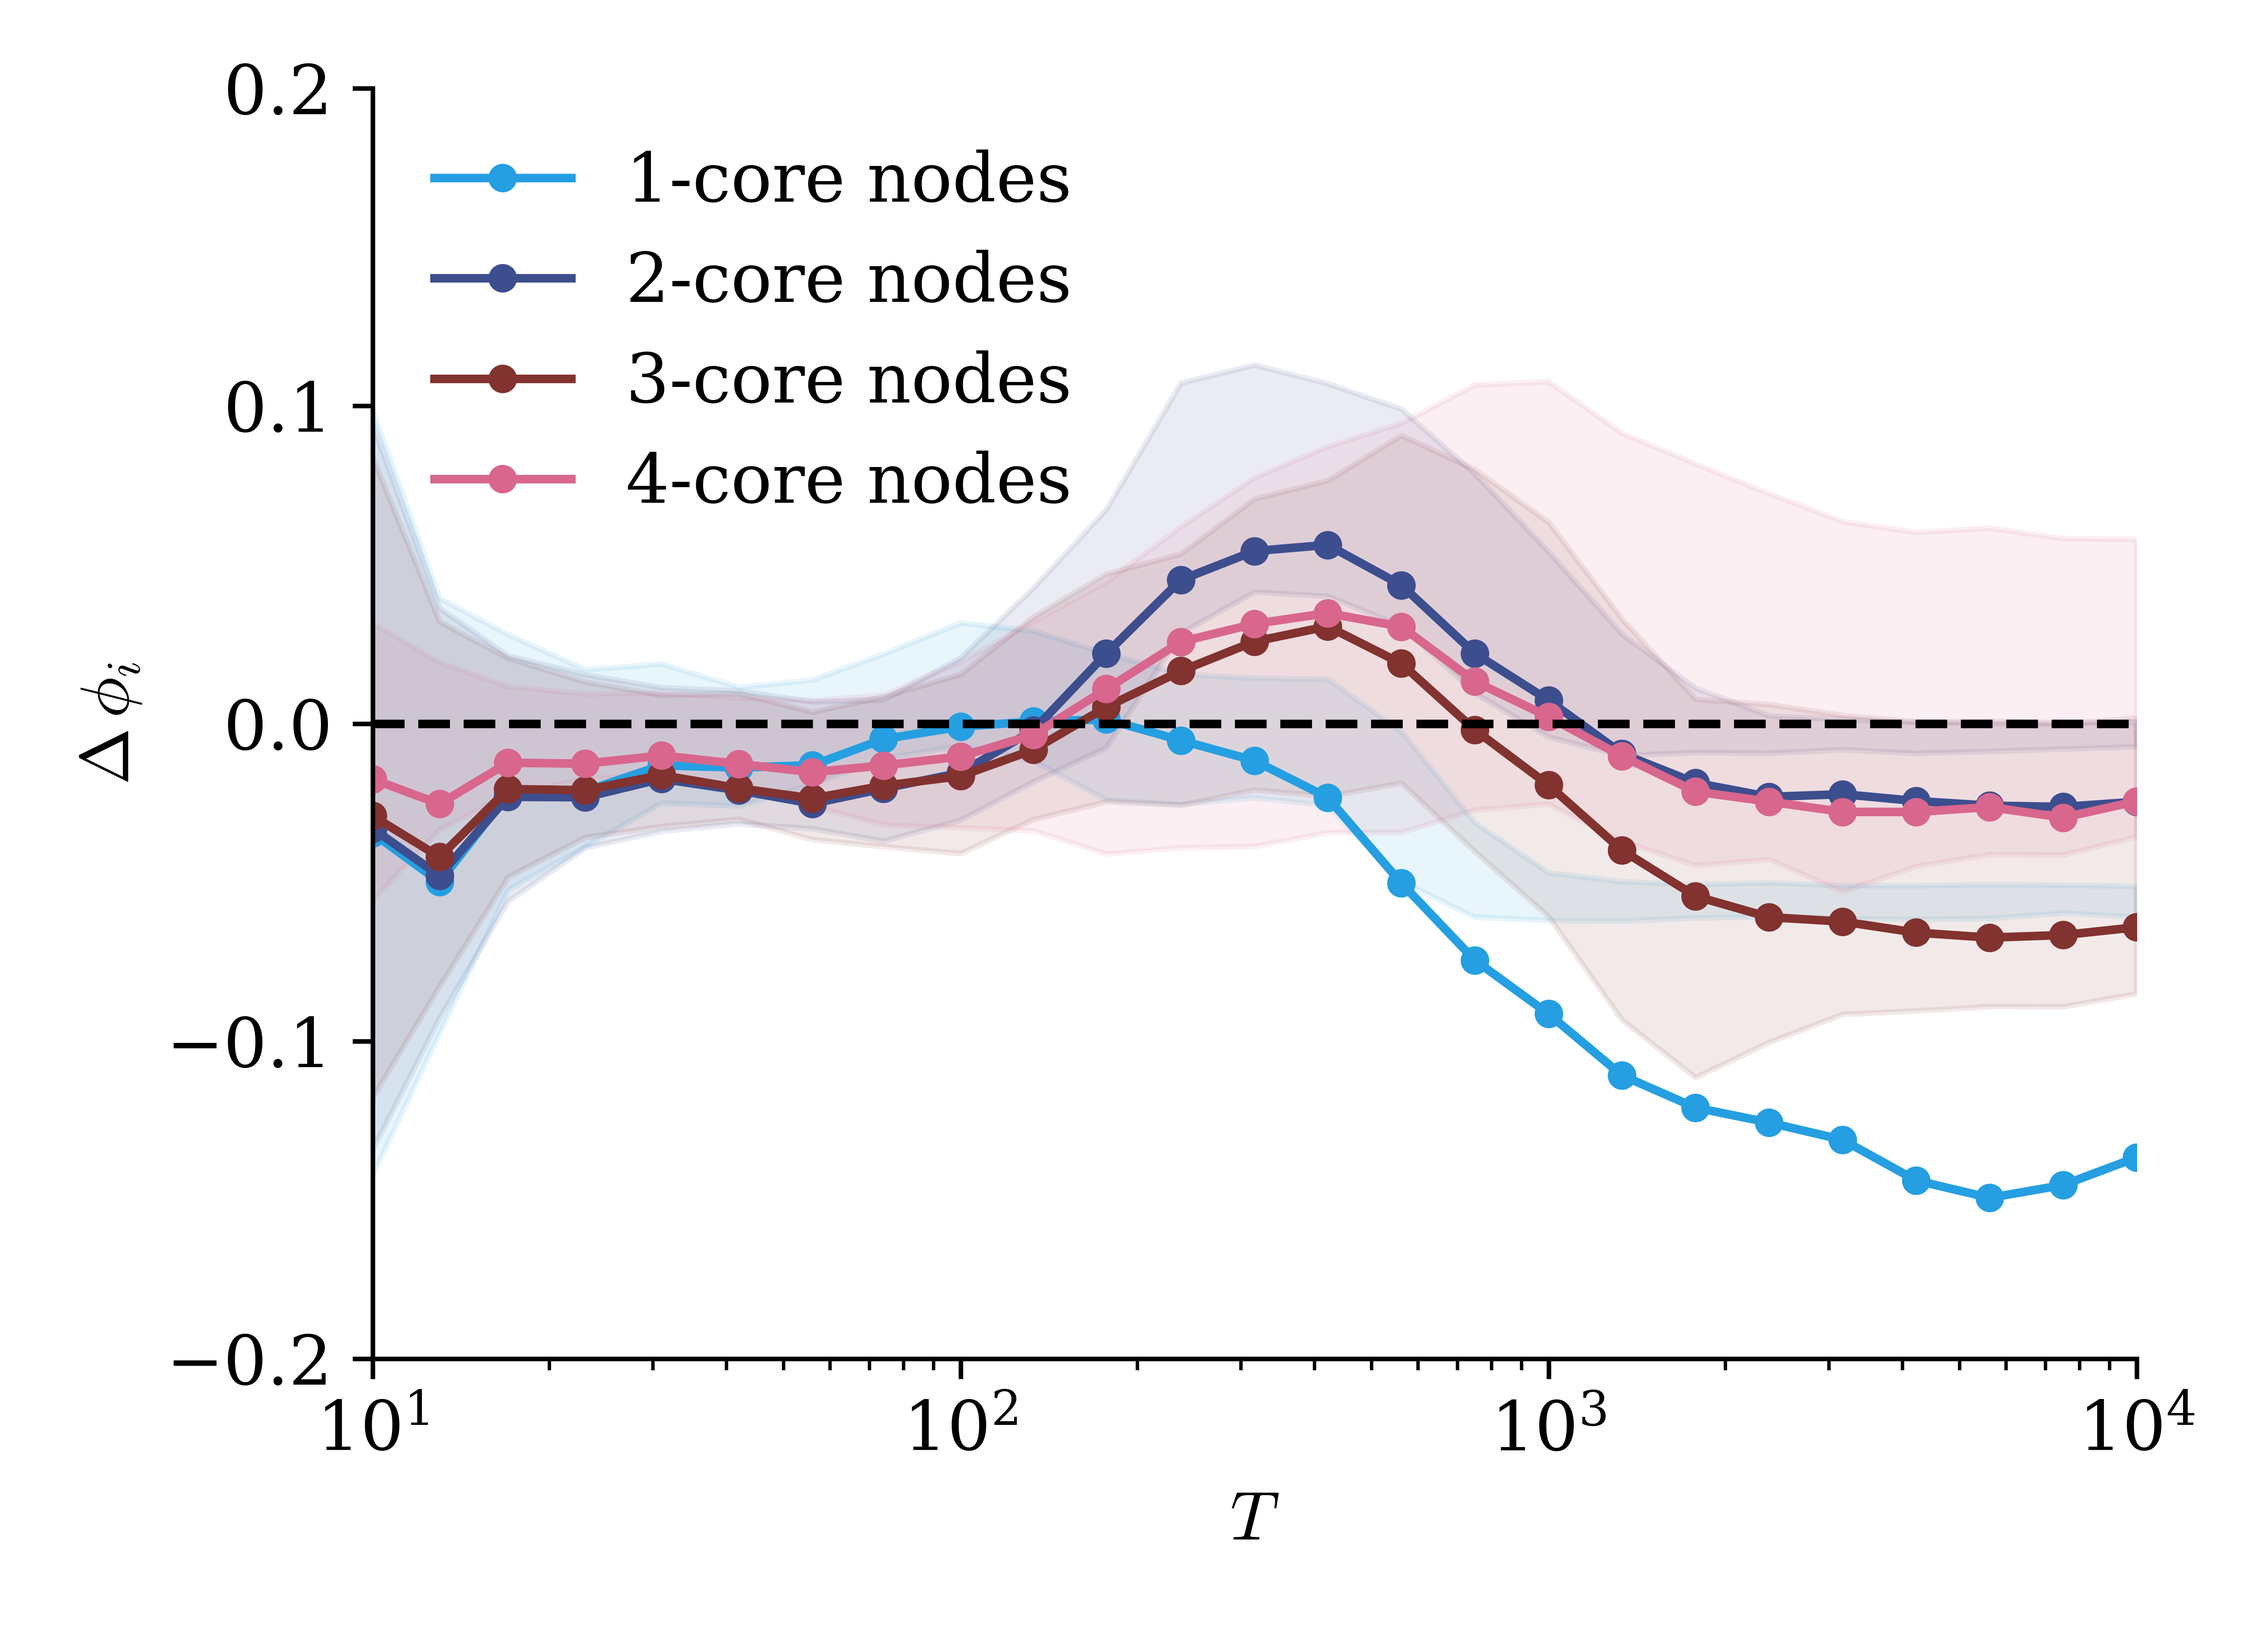
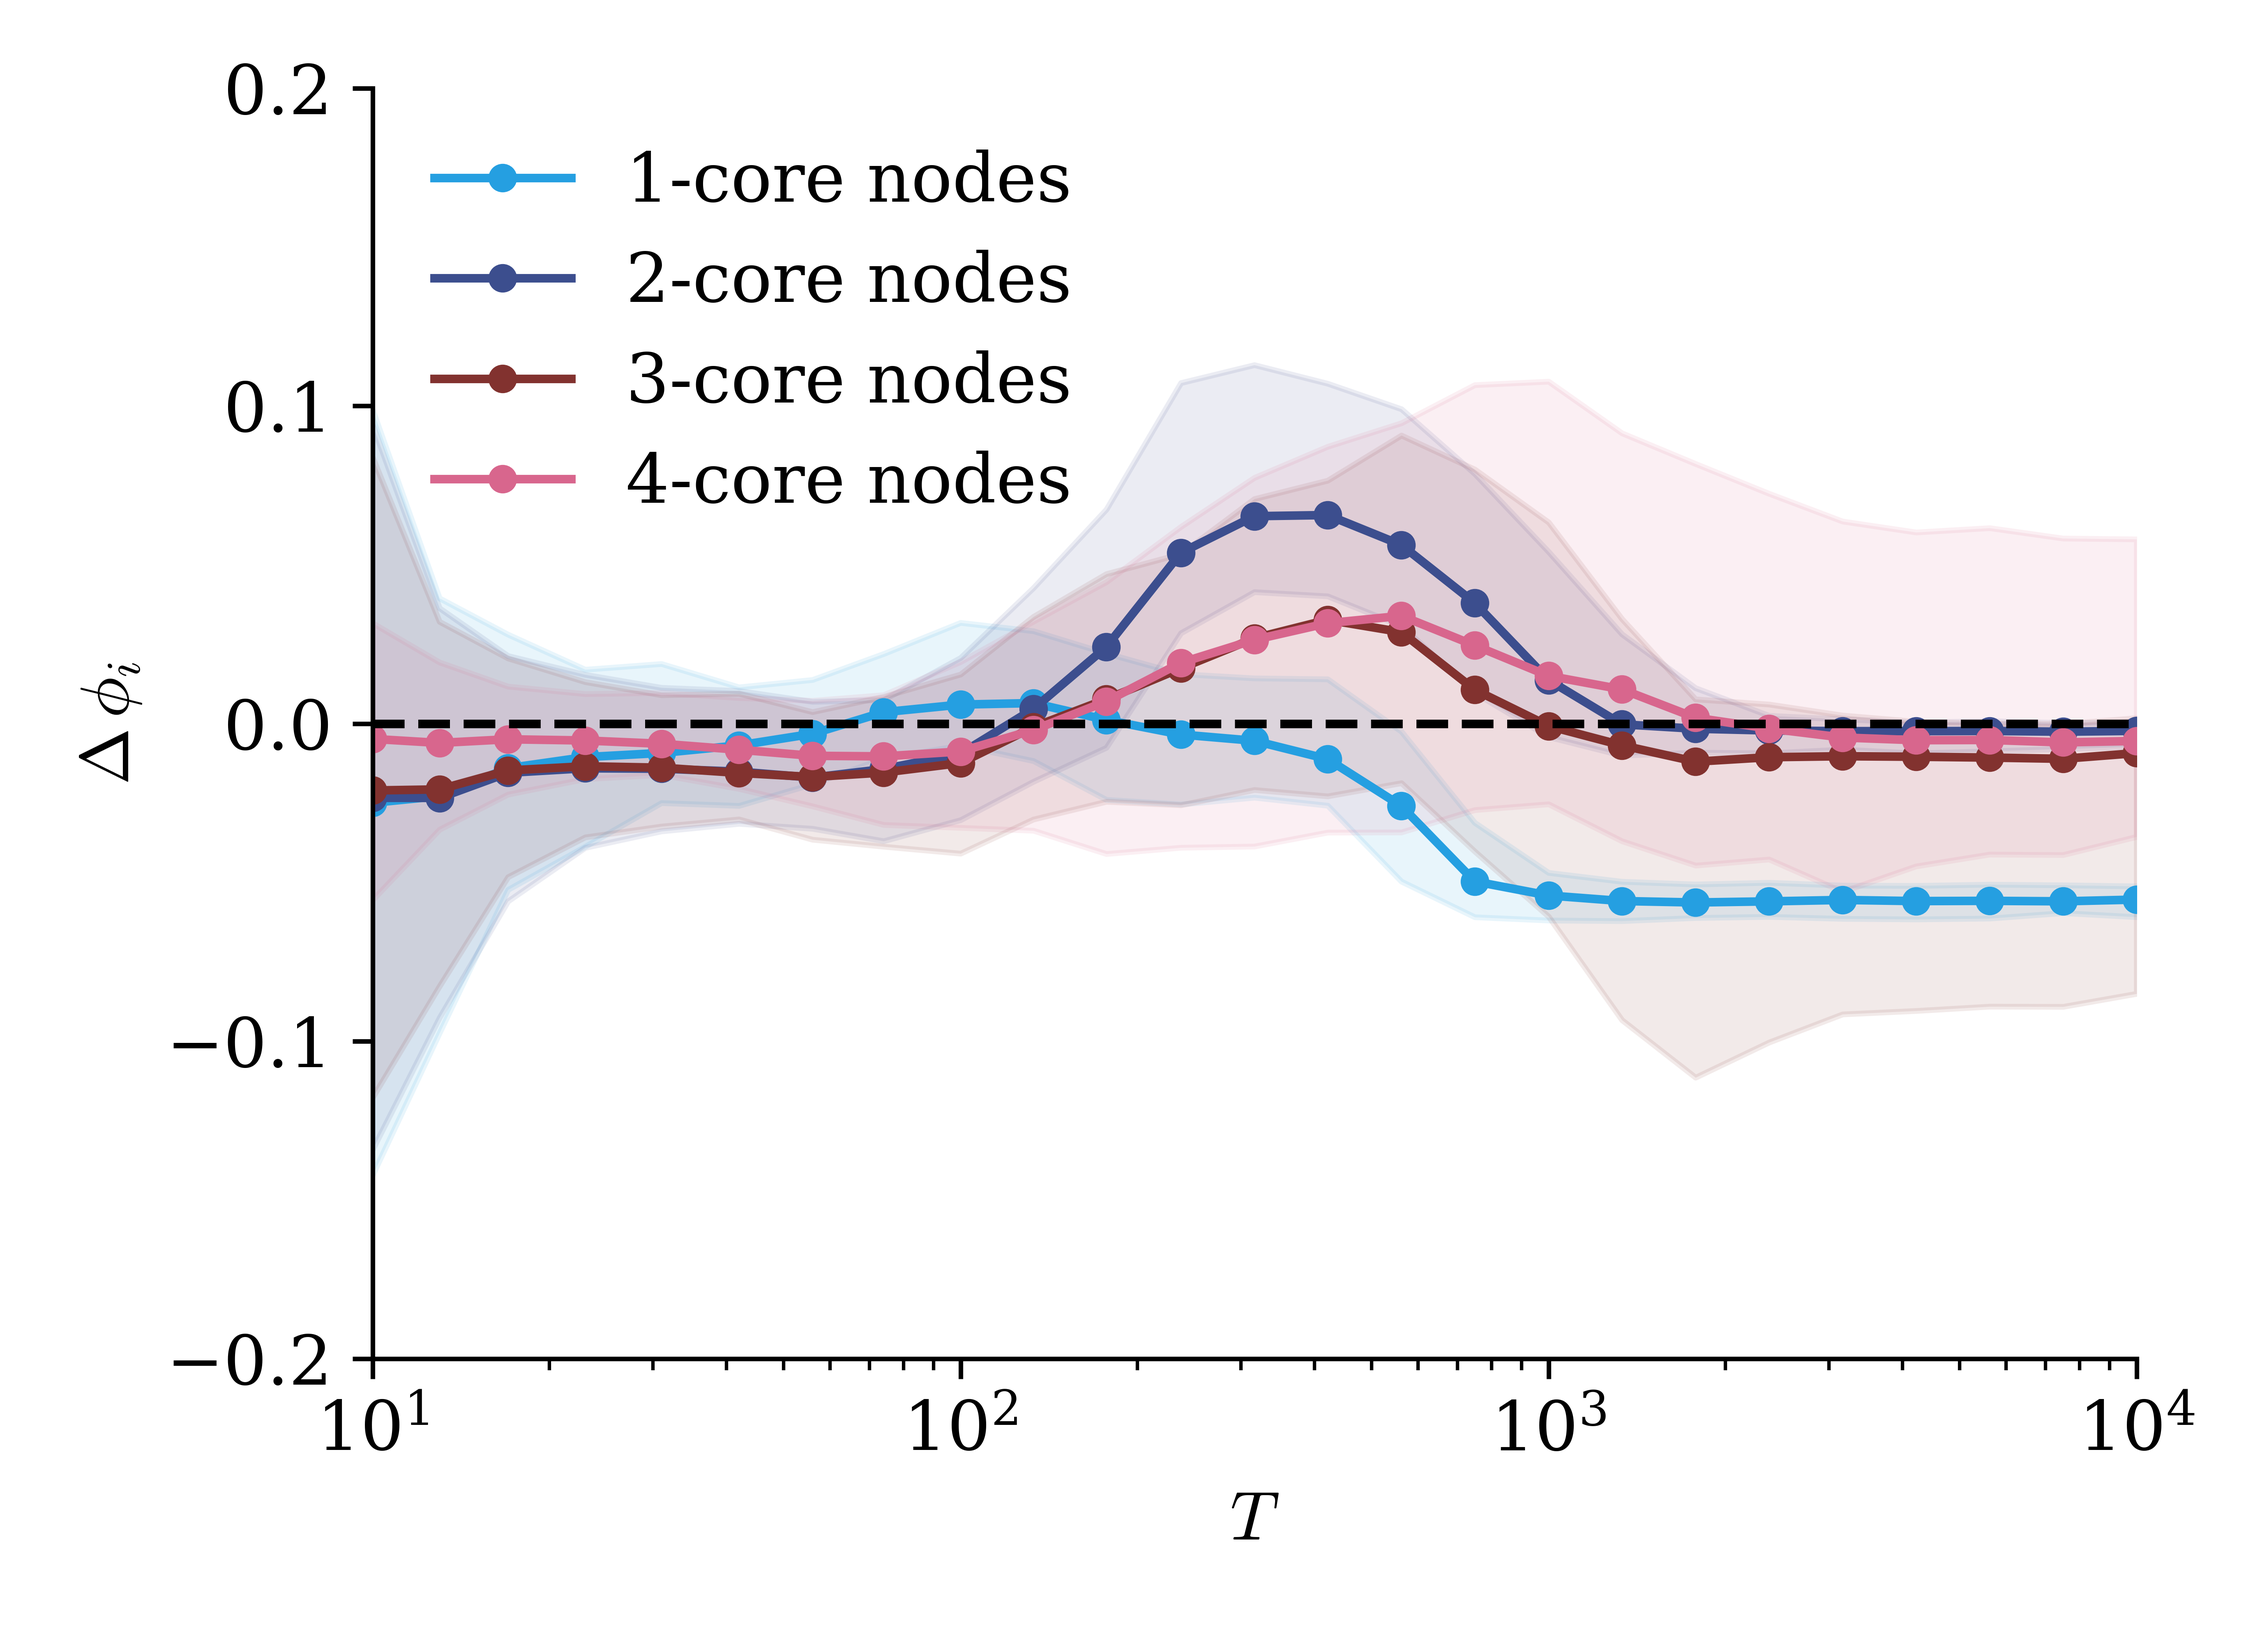
50% hdpi and median everywhere

Changed region(s): [[0.1555, 0.3125, 0.9638, 0.6562], [0.7151, 0.6562, 0.9638, 0.75]]

diff --git a/plot_fig1.py b/plot_fig1.py
@@ -140,7 +140,7 @@ ax2.plot(nus, c1, "-", color="C0", lw=5, alpha=0.5)
 
 err_c1 = np.zeros((2, n))
 for i in range(n):
-    interval = az.hdi(c1_samples[:, i], hdi_prob=0.8)
+    interval = az.hdi(c1_samples[:, i], hdi_prob=0.5)
     x, y = interval
     err_c1[0, i] = max(c1_mean[i] - x, 0)
     err_c1[1, i] = max(y - c1_mean[i], 0)
@@ -165,7 +165,7 @@ ax2.plot(nus, c2, "-", color="C1", lw=5, alpha=0.5)
 
 err_c2 = np.zeros((2, n))
 for i in range(n):
-    interval = az.hdi(c2_samples[:, i], hdi_prob=0.8)
+    interval = az.hdi(c2_samples[:, i], hdi_prob=0.5)
     x, y = interval
     err_c2[0, i] = max(c2_mean[i] - x, 0)
     err_c2[1, i] = max(y - c2_mean[i], 0)
@@ -233,7 +233,7 @@ print(tmax[max_idx])
 hdi_a = np.zeros_like(tmax)
 hdi_b = np.zeros_like(tmax)
 for i in range(len(tmax)):
-    interval = az.hdi(performance[0, i], hdi_prob=0.8)
+    interval = az.hdi(performance[0, i], hdi_prob=0.5)
     a, b = interval
     hdi_a[i] = a
     hdi_b[i] = b
@@ -243,7 +243,7 @@ ax3.fill_between(tmax, hdi_a, hdi_b, alpha=0.3, color="C0", edgecolor="none")
 hdi_a = np.zeros_like(tmax)
 hdi_b = np.zeros_like(tmax)
 for i in range(len(tmax)):
-    interval = az.hdi(performance[1, i], hdi_prob=0.8)
+    interval = az.hdi(performance[1, i], hdi_prob=0.5)
     a, b = interval
     hdi_a[i] = a
     hdi_b[i] = b

diff --git a/plot_fig3.py b/plot_fig3.py
@@ -11,6 +11,7 @@ from lcs import *
 
 
 fs.set_fonts()
+
 with open(f"Data/zkc_tmax_comparison.json") as file:
     data = json.load(file)
     tmax = np.array(data["tmax"], dtype=float)
@@ -52,7 +53,7 @@ for idx, k in enumerate(core_values):
     y = node_performance_complex[coreness == k] - node_performance_simple[coreness == k]
     # combine first and last axes.
     y = np.array([y[i, :, j] for i in range(n_k) for j in range(n_r)]).T
-    ymean = y.mean(axis=1)
+    ymean = np.median(y, axis=1)
 
     hdpi_a = np.zeros_like(tmax)
     hdpi_b = np.zeros_like(tmax)
